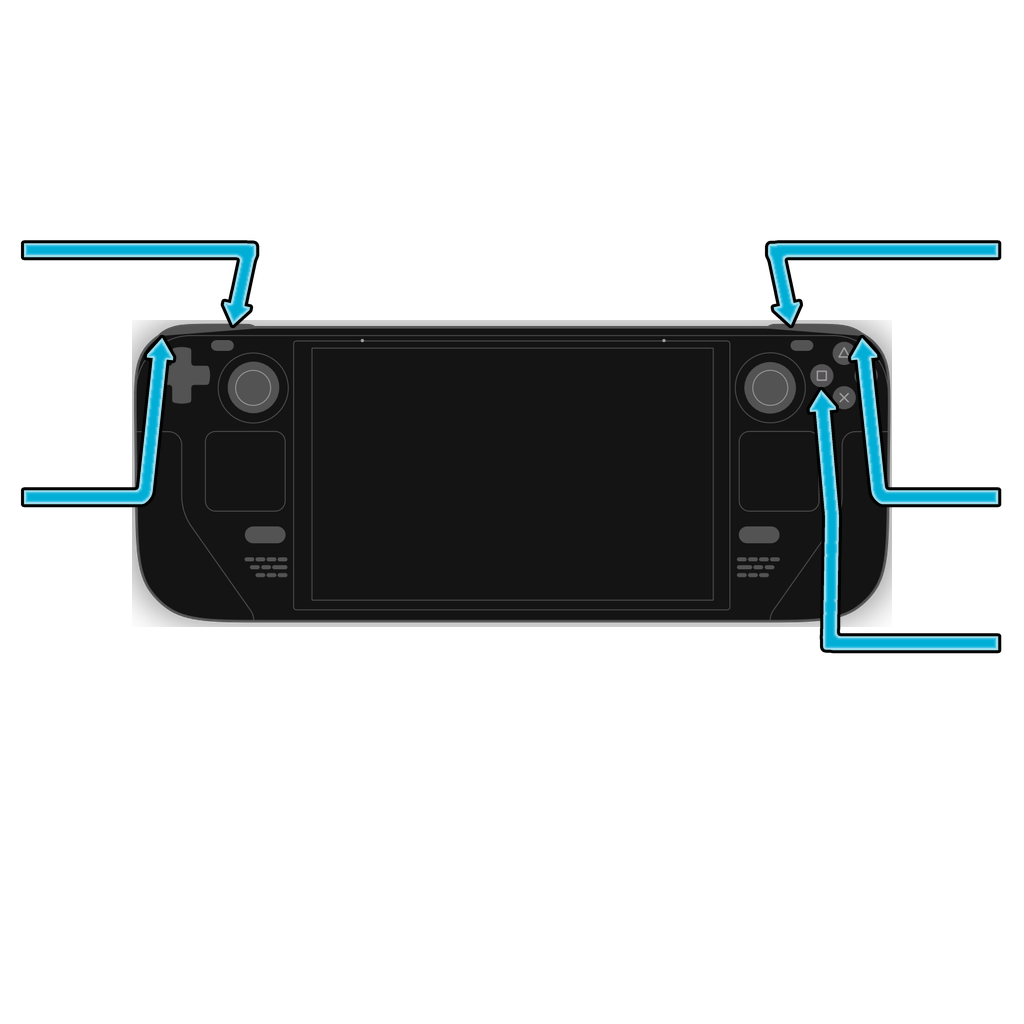
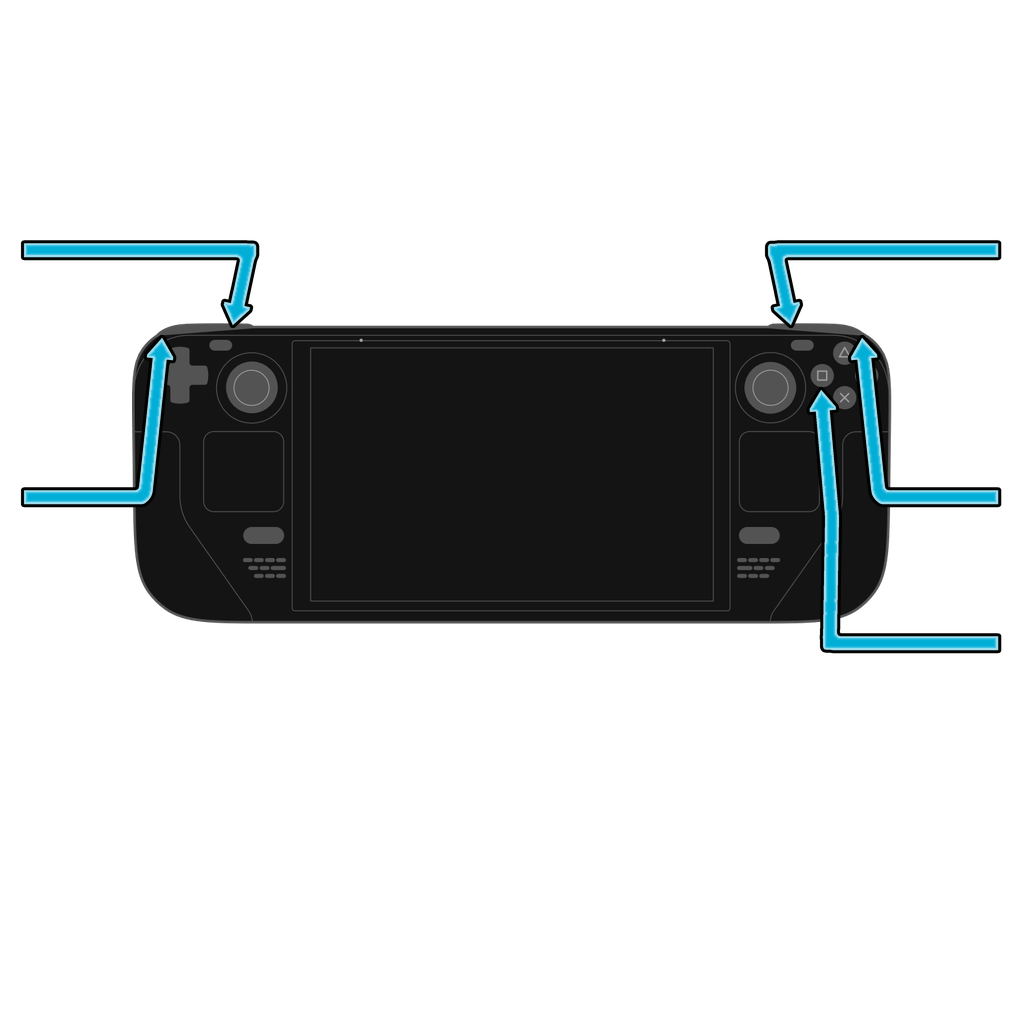
feat: Update Steam Deck controller assets and add Xbox pad aliases in schemes

Changed region(s): [[0.125, 0.3125, 0.875, 0.625], [0.8125, 0.3125, 0.875, 0.375], [0.7188, 0.5312, 0.75, 0.5625]]

diff --git a/src/controller_schemes/schemes.cpp b/src/controller_schemes/schemes.cpp
@@ -312,6 +312,7 @@ static bool LoadSchemeImpl(const fs::path& folder, bool trusted_reserved,
     *why = "invalid scheme kind"; return false;
   }
   std::set<std::string> paths;
+  std::set<std::string> pad_paths;
   unsigned image_count = 0;
   for (const auto& [key, value] : values) {
     if (key == "schema_version" || key == "id" || key == "name" || key == "kind") continue;
@@ -323,14 +324,18 @@ static bool LoadSchemeImpl(const fs::path& folder, bool trusted_reserved,
     else if (key == "icons.file") { image = &scheme.icons; scheme.has_icons = true; }
     else { *why = "unknown key: " + key; return false; }
     const fs::path relative = fs::path(std::u8string(value.begin(), value.end()));
-    if (!paths.insert(relative.generic_string()).second) {
+    const bool new_path = paths.insert(relative.generic_string()).second;
+    const bool pad_alias = key.starts_with("controller.slots.") &&
+                           pad_paths.contains(relative.generic_string());
+    if (!new_path && !pad_alias) {
       *why = "duplicate image path: " + value; return false;
     }
+    if (key.starts_with("controller.slots.")) pad_paths.insert(relative.generic_string());
     if (++image_count > (schema_version == 2 ? 128u : 64u)) {
       *why = "too many images"; return false;
     }
     if (!LoadImage(folder, value, decoder, image, why)) return false;
-    scheme.declared_files.push_back(relative);
+    if (new_path) scheme.declared_files.push_back(relative);
     if ((key == "controller.file" || key.starts_with("controller.slots.")) &&
         (image->width > 2048 || image->height > 2048)) { *why = "invalid pad"; return false; }
     if (key == "icons.file" && (image->width != 1024 || image->height != 512)) {

diff --git a/tests/button_scheme_tests.cpp b/tests/button_scheme_tests.cpp
@@ -66,10 +66,18 @@ int main() {
     Check(LoadScheme(art / id, false, FakePng, &scheme, &why),
           "authored v2 controller rejected");
     Check(scheme.schema_version == 2 && scheme.id == id && scheme.inputs.size() >= 26 &&
-          scheme.InputFor("pad:a") &&
-          (scheme.Pad("xbox_0") != nullptr) ==
-              (std::string(id) != "playstation-4" && std::string(id) != "playstation-5"),
+          scheme.InputFor("pad:a") && scheme.Pad("xbox_0") != nullptr,
           "authored v2 lookup wrong");
+    if (std::string(id) == "playstation-4" || std::string(id) == "playstation-5") {
+      Check(scheme.pads.size() == 8 && scheme.declared_files.size() == scheme.inputs.size() + 4,
+            "PlayStation pad aliases duplicated files");
+      for (int pad_index = 0; pad_index < 4; ++pad_index) {
+        const auto suffix = std::to_string(pad_index);
+        Check(scheme.Pad("xbox_" + suffix) && scheme.Pad("ps_" + suffix) &&
+              scheme.Pad("xbox_" + suffix)->rgba == scheme.Pad("ps_" + suffix)->rgba,
+              "PlayStation pad aliases differ");
+      }
+    }
     if (std::string(id) == "steam-deck")
       Check(scheme.InputFor("sdl:button:misc1") &&
             scheme.InputFor("sdl:button:left_paddle1"), "Deck extra source art missing");

diff --git a/scripts/controllers/generate_controller_scheme_fixtures.py b/scripts/controllers/generate_controller_scheme_fixtures.py
@@ -53,18 +53,12 @@ def main():
     (one_glyph / 'scheme.toml').write_text(
         'schema_version = 1\nid = "one-glyph"\nname = "One Glyph"\n'
         'kind = "controller"\n[buttons]\na_button = "a.png"\n')
-    one_pad = args.output / 'one-pad'
-    one_pad.mkdir(parents=True, exist_ok=True)
-    Image.new('RGBA', (128, 96), (255, 0, 220, 255)).save(one_pad / 'pad.png')
-    (one_pad / 'scheme.toml').write_text(
-        'schema_version = 1\nid = "one-pad"\nname = "One Pad"\n'
-        'kind = "controller"\n[controller.slots]\nxbox_1 = "pad.png"\n')
     broken = args.output / 'invalid-missing'
     broken.mkdir(parents=True, exist_ok=True)
     (broken / 'scheme.toml').write_text(
         'schema_version = 1\nid = "invalid-missing"\nname = "Invalid"\n'
         'kind = "controller"\n[buttons]\na_button = "missing.png"\n')
-    print(f'Generated {package}, {one_glyph}, {one_pad}, and {broken}')
+    print(f'Generated {package}, {one_glyph}, and {broken}')
 
 
 if __name__ == '__main__':

diff --git a/scripts/controllers/generate_steam_deck_pads.py b/scripts/controllers/generate_steam_deck_pads.py
@@ -13,10 +13,10 @@ from generate_controller_pad_0 import (
 
 
 SOURCE = ROOT / "assets/controller/masters/steam-deck/pad.png"
-# Crop the transparent export margin to the prior 1132:458 framing so the
-# existing arrow tips still land on their controls.
-SOURCE_CROP = (70, 62, 1202, 520)
-BODY = (132, 320, 892, 627)
+# Fit the visible body from the current master without changing its proportions.
+# The three-pixel vertical inset keeps the existing callout tips on the controls.
+SOURCE_CROP = (73, 67, 1201, 514)
+BODY = (132, 323, 892, 624)
 ROUTE_COUNTS = (7, 6, 5, 6)
 LEFT_SHAFT_JOIN = frozenset(("dpad", "left_stick"))
 PAD_0_JOINS = frozenset((

diff --git a/docs/guides/controller-scheme-v2-format.md b/docs/guides/controller-scheme-v2-format.md
@@ -42,7 +42,10 @@ clearance and continuous arrow pixels. PlayStation 5 declares its four generated
 [`pad.png`](../../assets/controller/masters/playstation-5/pad.png) and
 [`pad_N-arrows.svg`](../../assets/controller/masters/playstation-5/pad_0-arrows.svg)
 masters. Its fixed text rails follow the corresponding PS3 reference pads.
-PlayStation 4 declares the same four `ps_0` through `ps_3` slots. Run
+PlayStation 4 declares the same four `ps_0` through `ps_3` slots. Both PlayStation
+layouts also point `xbox_0` through `xbox_3` at those same four PNGs because the
+game's mapping page uses the Xbox texture family. Pad slots may share a PNG path.
+Run
 `python scripts/controllers/generate_playstation_4_pads.py` to rebuild them from its
 [`pad.png`](../../assets/controller/masters/playstation-4/pad.png) and
 [`pad_N-arrows.svg`](../../assets/controller/masters/playstation-4/pad_0-arrows.svg)
